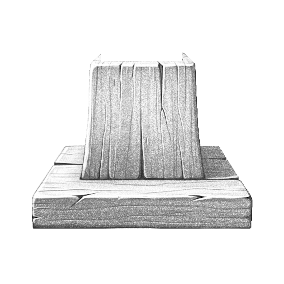
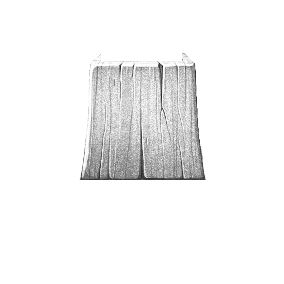
Improve basic asset

Changed region(s): [[0.1127, 0.507, 0.9014, 0.8169]]

diff --git a/src/assets/room_devices/hashira/hashira.asset.ts b/src/assets/room_devices/hashira/hashira.asset.ts
@@ -30,7 +30,7 @@ DefineRoomDeviceAsset({
 	modules: {
 		model: {
 			type: 'typed',
-			name: 'base',
+			name: 'Model',
 			staticConfig: { slotName: 'front' },
 			variants: [
 				{
@@ -46,7 +46,7 @@ DefineRoomDeviceAsset({
 		},
 		base: {
 			type: 'typed',
-			name: 'base',
+			name: 'Base',
 			staticConfig: { slotName: 'front' },
 			variants: [
 				{
@@ -62,7 +62,7 @@ DefineRoomDeviceAsset({
 		},
 		saddle: {
 			type: 'typed',
-			name: 'saddle',
+			name: 'Saddle',
 			staticConfig: { slotName: 'front' },
 			variants: [
 				{
@@ -120,7 +120,7 @@ DefineRoomDeviceAsset({
 			type: 'sprite',
 			image: '',
 			colorizationKey: 'hashira',
-			offset: { x: -142, y: -200 },
+			offset: { x: -142, y: -180 },
 			imageOverrides: [
 				{
 					image: 'hashira_base.png',
